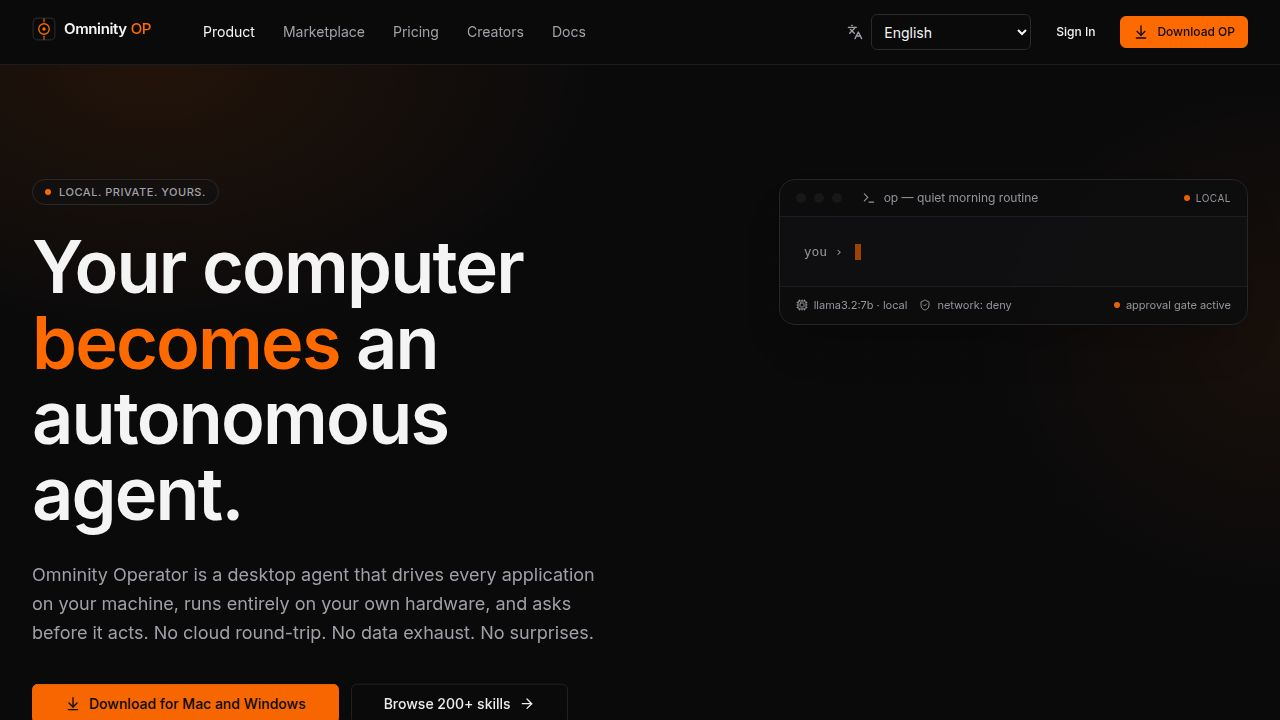
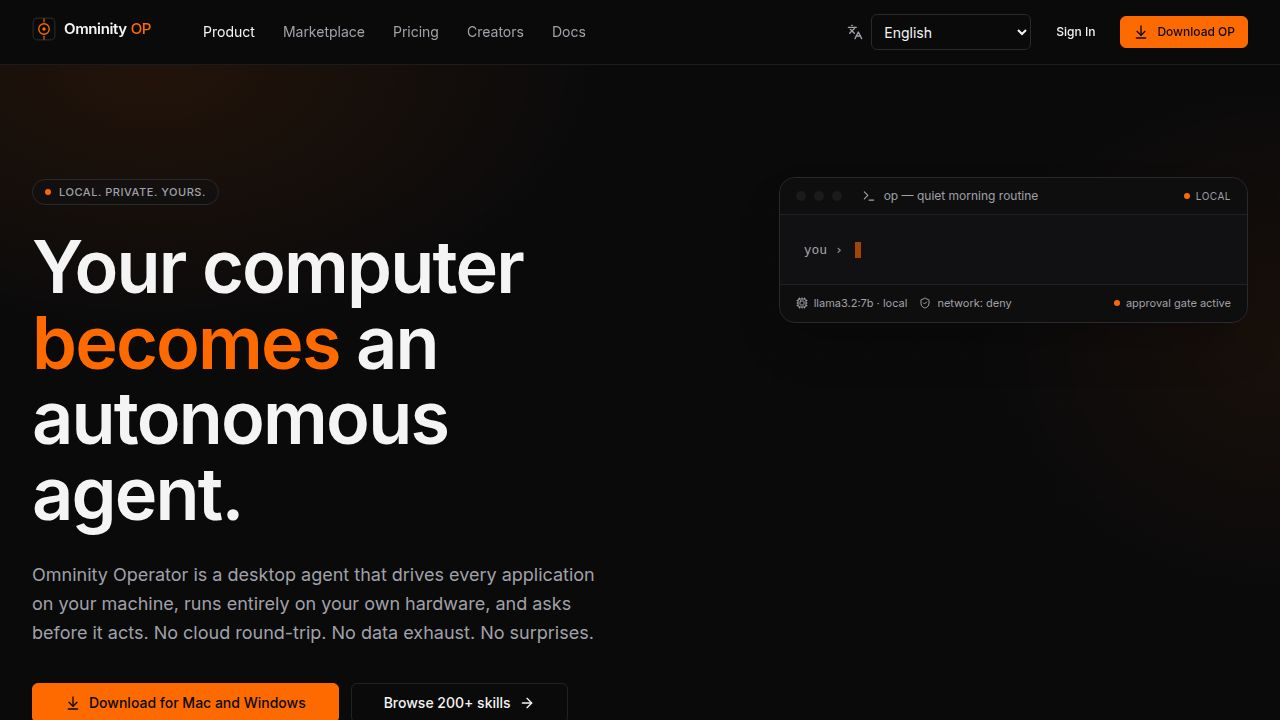
Integrate knowledge base into chat conversations automatically
Adds a new helper function to retrieve relevant knowledge base snippets for user queries and injects them as a system message into the chat context.

Replit-Commit-Author: Agent
Replit-Commit-Session-Id: d8c6a94e-3b61-4032-9c0e-8f67a9990c12
Replit-Commit-Checkpoint-Type: full_checkpoint
Replit-Commit-Event-Id: 93928f1c-5dd2-467b-8f04-993a1049f417
Replit-Commit-Screenshot-Url: https://storage.googleapis.com/screenshot-production-us-central1/7d735eec-594e-4038-8fa2-a563ecfdf00a/d8c6a94e-3b61-4032-9c0e-8f67a9990c12/uvJxxRL
Replit-Helium-Checkpoint-Created: true

diff --git a/artifacts/api-server/src/services/context.service.ts b/artifacts/api-server/src/services/context.service.ts
@@ -62,6 +62,7 @@ import {
 import type { TenantContext } from "@workspace/types";
 
 import { logger } from "../lib/logger";
+import { retrieveContext } from "./kb.service";
 import {
   CloudConsentRequiredError,
   CloudCredentialMissingError,
@@ -481,6 +482,30 @@ function buildDeterministicSummary(msgs: ReadonlyArray<ContextMessage>): string 
 }
 
 /**
+ * Silently retrieves relevant knowledge-base snippets for `query` and
+ * returns a system-role ChatTurn to prepend to the prompt. Returns
+ * `null` when the KB is empty, has no relevant hits, or the search
+ * throws — so callers never have to guard against failures here.
+ */
+async function tryGetKbContext(
+  ctx: TenantContext,
+  query: string,
+): Promise<ChatTurn | null> {
+  try {
+    const kb = await retrieveContext(ctx, query, { limit: 4 });
+    if (kb.hits.length === 0) return null;
+    return {
+      role: "system",
+      content:
+        `The following snippets were retrieved from the user's personal knowledge base and are relevant to their message. ` +
+        `Use them to inform your response where appropriate:\n\n${kb.summary}`,
+    };
+  } catch {
+    return null;
+  }
+}
+
+/**
  * Public entry-point used by `/api/chat`. Loads the conversation's
  * active context, applies rolling summarisation if the prompt would
  * trigger the threshold, and returns the messages-to-send envelope.
@@ -505,8 +530,12 @@ export async function prepareChatContext(
         "Your message alone is larger than the model's context window. Switch to a model with a larger window or split the message into smaller pieces.",
       );
     }
+    const kbTurn = await tryGetKbContext(ctx, pendingInput);
+    const messages: ChatTurn[] = [];
+    if (kbTurn) messages.push(kbTurn);
+    messages.push({ role: "user", content: pendingInput });
     return {
-      messages: [{ role: "user", content: pendingInput }],
+      messages,
       usage,
       summarisedThisCall: false,
       compressedMessageCount: 0,
@@ -551,6 +580,12 @@ export async function prepareChatContext(
       role: m.role as ChatTurn["role"],
       content: m.content,
     }));
+
+  // Retrieve relevant knowledge and inject as a leading system message
+  // so the model always sees it before the conversation history.
+  const kbTurn = await tryGetKbContext(ctx, pendingInput);
+  if (kbTurn) turns.unshift(kbTurn);
+
   turns.push({ role: "user", content: pendingInput });
 
   return {